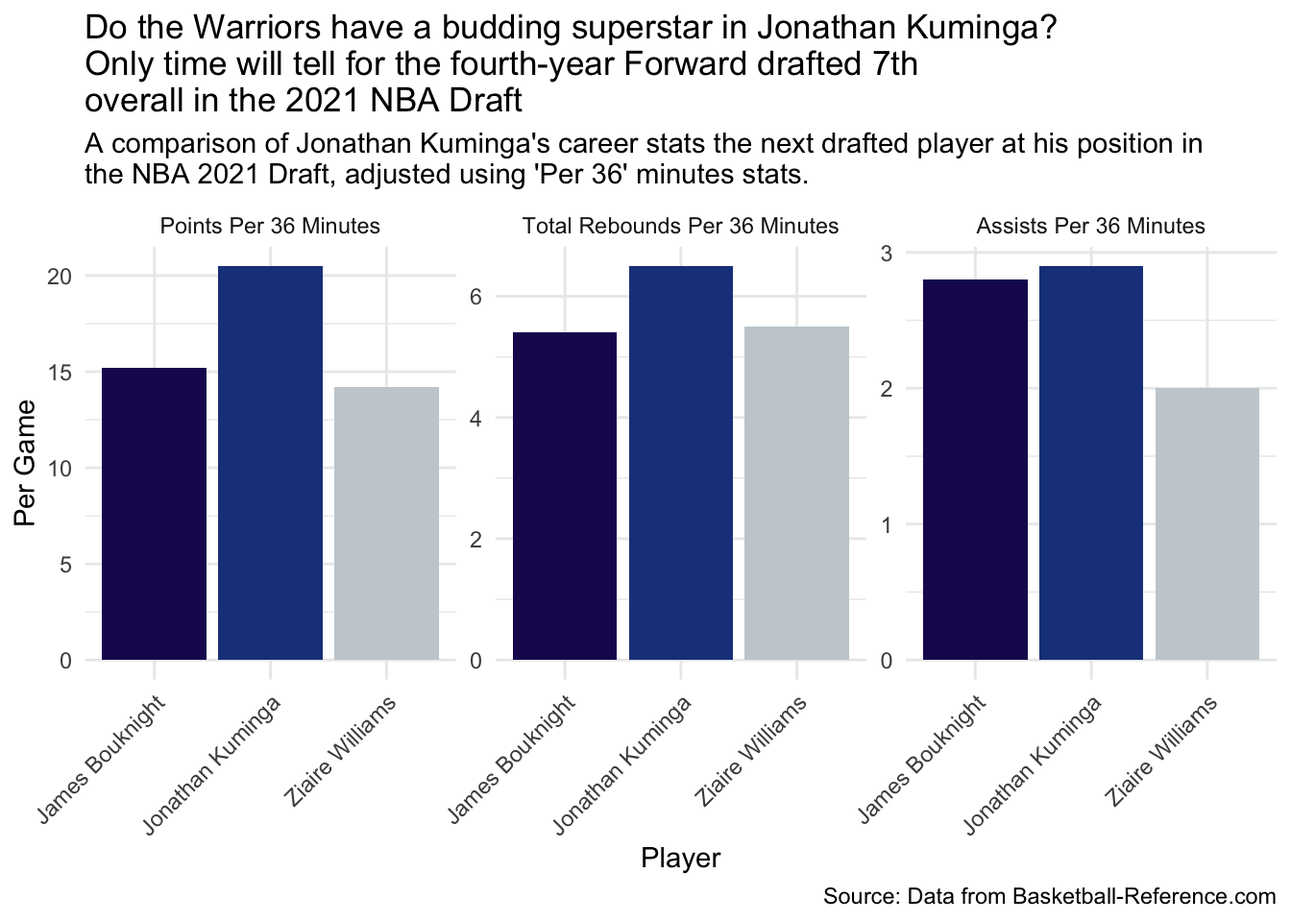
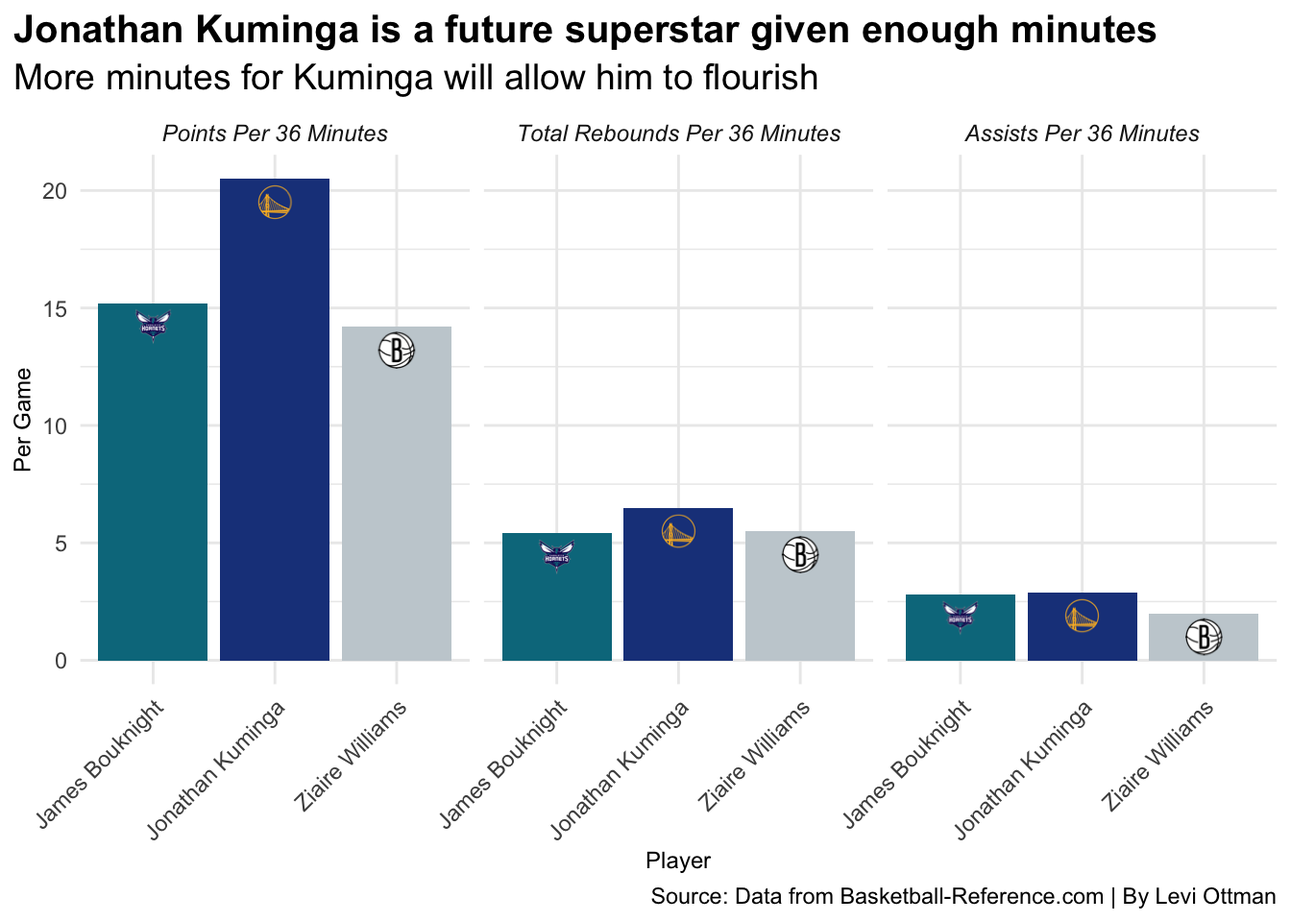
edits
changes made

diff --git a/posts/warriors-nba-draft/index.html b/posts/warriors-nba-draft/index.html
@@ -195,27 +195,14 @@ pre > code.sourceCode > span > a:first-child::before { text-decoration: underlin
 
 
 
-<p>Are the Warriors the best at drafting rookies recently? The Warriors have won four championships since 2015, cementing themselves as a modern-day dynasty, with that comes low draft pick numbers. In the last 10 drafts, the warriors have had an average first round pick at pick 19, but have been able to develop late-round rookies into key players that have contributed to their continued success. I am comparing the warriors picks to other players drafted just behind them to see if they truly drafted the best guy available at the time</p>
+<p>Are the Warriors the best at drafting rookies recently?</p>
+<p>The Warriors have won four championships since 2015, cementing themselves as a modern-day dynasty. With being a playoff contender year after year comes low draft picks. In the last 10 drafts, the Warriors have had an average first round pick at pick 19, but have been able to develop late-round rookies into key players that have contributed to their continued success.</p>
+<p>Even though the Warriors have had an average draft pick of 19, the question remains; are the Warriors the best at drafting and developing rookies?</p>
+<p>The first question we will answer is “Was Jonathan Kuminga the correct choice for the Warriors in the 2021 NBA Draft?” Here’s Kuminga’s stats per 36 minutes compared to similar players drafted behind him.</p>
 <div class="cell">
 <details class="code-fold">
 <summary>Code</summary>
-<div class="sourceCode cell-code" id="cb1"><pre class="sourceCode r code-with-copy"><code class="sourceCode r"><span id="cb1-1"><a href="#cb1-1" aria-hidden="true" tabindex="-1"></a><span class="fu">library</span>(tidyverse)</span></code><button title="Copy to Clipboard" class="code-copy-button"><i class="bi"></i></button></pre></div>
-</details>
-<div class="cell-output cell-output-stderr">
-<pre><code>── Attaching core tidyverse packages ──────────────────────── tidyverse 2.0.0 ──
-✔ dplyr     1.1.4     ✔ readr     2.1.5
-✔ forcats   1.0.0     ✔ stringr   1.5.1
-✔ ggplot2   3.5.1     ✔ tibble    3.2.1
-✔ lubridate 1.9.4     ✔ tidyr     1.3.1
-✔ purrr     1.0.4     
-── Conflicts ────────────────────────────────────────── tidyverse_conflicts() ──
-✖ dplyr::filter() masks stats::filter()
-✖ dplyr::lag()    masks stats::lag()
-ℹ Use the conflicted package (&lt;http://conflicted.r-lib.org/&gt;) to force all conflicts to become errors</code></pre>
-</div>
-<details class="code-fold">
-<summary>Code</summary>
-<div class="sourceCode cell-code" id="cb3"><pre class="sourceCode r code-with-copy"><code class="sourceCode r"><span id="cb3-1"><a href="#cb3-1" aria-hidden="true" tabindex="-1"></a>Kuminga_Stat_Chart <span class="ot">&lt;-</span> <span class="fu">read_csv</span>(<span class="st">"data/2021_Draft_Kuminga.csv"</span>)</span></code><button title="Copy to Clipboard" class="code-copy-button"><i class="bi"></i></button></pre></div>
+<div class="sourceCode cell-code" id="cb1"><pre class="sourceCode r code-with-copy"><code class="sourceCode r"><span id="cb1-1"><a href="#cb1-1" aria-hidden="true" tabindex="-1"></a>Kuminga_Stat_Chart <span class="ot">&lt;-</span> <span class="fu">read_csv</span>(<span class="st">"/Users/leviottman/Desktop/School/Office Documents/Spring 2025/Sports Data Analysis/Major Assignment/sportsBlog/posts/warriors-nba-draft/data/2021_Draft_Kuminga.csv"</span>)</span></code><button title="Copy to Clipboard" class="code-copy-button"><i class="bi"></i></button></pre></div>
 </details>
 <div class="cell-output cell-output-stderr">
 <pre><code>New names:
@@ -237,51 +224,157 @@ Specify the column types or set `show_col_types = FALSE` to quiet this message.
 </div>
 <details class="code-fold">
 <summary>Code</summary>
-<div class="sourceCode cell-code" id="cb5"><pre class="sourceCode r code-with-copy"><code class="sourceCode r"><span id="cb5-1"><a href="#cb5-1" aria-hidden="true" tabindex="-1"></a>Kuminga_Stat_Chart_long <span class="ot">&lt;-</span> Kuminga_Stat_Chart <span class="sc">|&gt;</span></span>
-<span id="cb5-2"><a href="#cb5-2" aria-hidden="true" tabindex="-1"></a>   <span class="fu">select</span>(Player, PTSper36, TRBper36, ASTper36) <span class="sc">|&gt;</span></span>
-<span id="cb5-3"><a href="#cb5-3" aria-hidden="true" tabindex="-1"></a>  <span class="fu">pivot_longer</span>(<span class="at">cols =</span> <span class="fu">c</span>(PTSper36, TRBper36, ASTper36), <span class="at">names_to =</span> <span class="st">"Stat"</span>, <span class="at">values_to =</span> <span class="st">"Value"</span>) <span class="sc">|&gt;</span></span>
-<span id="cb5-4"><a href="#cb5-4" aria-hidden="true" tabindex="-1"></a>  <span class="fu">mutate</span>(</span>
-<span id="cb5-5"><a href="#cb5-5" aria-hidden="true" tabindex="-1"></a>    <span class="at">Stat =</span> <span class="fu">factor</span>(Stat, <span class="at">levels =</span> <span class="fu">c</span>(<span class="st">"PTSper36"</span>, <span class="st">"TRBper36"</span>, <span class="st">"ASTper36"</span>)),</span>
-<span id="cb5-6"><a href="#cb5-6" aria-hidden="true" tabindex="-1"></a>    <span class="at">Stat =</span> <span class="fu">recode</span>(Stat, </span>
-<span id="cb5-7"><a href="#cb5-7" aria-hidden="true" tabindex="-1"></a>                  <span class="st">"PTSper36"</span> <span class="ot">=</span> <span class="st">"Points Per 36 Minutes"</span>, </span>
-<span id="cb5-8"><a href="#cb5-8" aria-hidden="true" tabindex="-1"></a>                  <span class="st">"TRBper36"</span> <span class="ot">=</span> <span class="st">"Total Rebounds Per 36 Minutes"</span>, </span>
-<span id="cb5-9"><a href="#cb5-9" aria-hidden="true" tabindex="-1"></a>                  <span class="st">"ASTper36"</span> <span class="ot">=</span> <span class="st">"Assists Per 36 Minutes"</span>),</span>
-<span id="cb5-10"><a href="#cb5-10" aria-hidden="true" tabindex="-1"></a>    <span class="at">Color =</span> <span class="fu">case_when</span>(</span>
-<span id="cb5-11"><a href="#cb5-11" aria-hidden="true" tabindex="-1"></a>      Player <span class="sc">==</span> <span class="st">"Jonathan Kuminga"</span> <span class="sc">&amp;</span> Stat <span class="sc">==</span> <span class="st">"Points Per 36 Minutes"</span> <span class="sc">~</span> <span class="st">"#1D428A"</span>,</span>
-<span id="cb5-12"><a href="#cb5-12" aria-hidden="true" tabindex="-1"></a>      Player <span class="sc">==</span> <span class="st">"Jonathan Kuminga"</span> <span class="sc">&amp;</span> Stat <span class="sc">==</span> <span class="st">"Total Rebounds Per 36 Minutes"</span> <span class="sc">~</span> <span class="st">"#1D428A"</span>,</span>
-<span id="cb5-13"><a href="#cb5-13" aria-hidden="true" tabindex="-1"></a>      Player <span class="sc">==</span> <span class="st">"Jonathan Kuminga"</span> <span class="sc">&amp;</span> Stat <span class="sc">==</span> <span class="st">"Assists Per 36 Minutes"</span> <span class="sc">~</span> <span class="st">"#1D428A"</span>, </span>
-<span id="cb5-14"><a href="#cb5-14" aria-hidden="true" tabindex="-1"></a>      Player <span class="sc">==</span> <span class="st">"James Bouknight"</span> <span class="sc">&amp;</span> Stat <span class="sc">==</span> <span class="st">"Points Per 36 Minutes"</span> <span class="sc">~</span> <span class="st">"#1D1160"</span>,</span>
-<span id="cb5-15"><a href="#cb5-15" aria-hidden="true" tabindex="-1"></a>      Player <span class="sc">==</span> <span class="st">"James Bouknight"</span> <span class="sc">&amp;</span> Stat <span class="sc">==</span> <span class="st">"Total Rebounds Per 36 Minutes"</span> <span class="sc">~</span> <span class="st">"#1D1160"</span>,</span>
-<span id="cb5-16"><a href="#cb5-16" aria-hidden="true" tabindex="-1"></a>      Player <span class="sc">==</span> <span class="st">"James Bouknight"</span> <span class="sc">&amp;</span> Stat <span class="sc">==</span> <span class="st">"Assists Per 36 Minutes"</span> <span class="sc">~</span> <span class="st">"#1D1160"</span>, </span>
-<span id="cb5-17"><a href="#cb5-17" aria-hidden="true" tabindex="-1"></a>      Player <span class="sc">==</span> <span class="st">"Ziaire Williams"</span> <span class="sc">&amp;</span> Stat <span class="sc">==</span> <span class="st">"Points Per 36 Minutes"</span> <span class="sc">~</span> <span class="st">"#C6CFD4"</span>,</span>
-<span id="cb5-18"><a href="#cb5-18" aria-hidden="true" tabindex="-1"></a>      Player <span class="sc">==</span> <span class="st">"Ziaire Williams"</span> <span class="sc">&amp;</span> Stat <span class="sc">==</span> <span class="st">"Total Rebounds Per 36 Minutes"</span> <span class="sc">~</span> <span class="st">"#C6CFD4"</span>,</span>
-<span id="cb5-19"><a href="#cb5-19" aria-hidden="true" tabindex="-1"></a>      Player <span class="sc">==</span> <span class="st">"Ziaire Williams"</span> <span class="sc">&amp;</span> Stat <span class="sc">==</span> <span class="st">"Assists Per 36 Minutes"</span> <span class="sc">~</span> <span class="st">"#C6CFD4"</span>,</span>
-<span id="cb5-20"><a href="#cb5-20" aria-hidden="true" tabindex="-1"></a>      <span class="cn">TRUE</span> <span class="sc">~</span> <span class="st">"grey"</span>  <span class="co"># Default color for other players</span></span>
-<span id="cb5-21"><a href="#cb5-21" aria-hidden="true" tabindex="-1"></a>    )</span>
-<span id="cb5-22"><a href="#cb5-22" aria-hidden="true" tabindex="-1"></a>  )</span>
-<span id="cb5-23"><a href="#cb5-23" aria-hidden="true" tabindex="-1"></a></span>
-<span id="cb5-24"><a href="#cb5-24" aria-hidden="true" tabindex="-1"></a><span class="fu">ggplot</span>(Kuminga_Stat_Chart_long, <span class="fu">aes</span>(<span class="at">x =</span> Player, <span class="at">y =</span> Value, <span class="at">fill =</span> Color)) <span class="sc">+</span></span>
-<span id="cb5-25"><a href="#cb5-25" aria-hidden="true" tabindex="-1"></a>  <span class="fu">geom_bar</span>(<span class="at">stat =</span> <span class="st">"identity"</span>, <span class="at">position =</span> <span class="st">"dodge"</span>) <span class="sc">+</span></span>
-<span id="cb5-26"><a href="#cb5-26" aria-hidden="true" tabindex="-1"></a>  <span class="fu">labs</span>(</span>
-<span id="cb5-27"><a href="#cb5-27" aria-hidden="true" tabindex="-1"></a>    <span class="at">title =</span> <span class="fu">str_wrap</span>(<span class="st">"Do the Warriors have a budding superstar in Jonathan Kuminga? Only time will tell for the fourth-year Forward drafted 7th overall in the 2021 NBA Draft"</span>, <span class="at">width =</span> <span class="dv">63</span>),</span>
-<span id="cb5-28"><a href="#cb5-28" aria-hidden="true" tabindex="-1"></a>    <span class="at">subtitle =</span> <span class="fu">str_wrap</span>(<span class="st">"A comparison of Jonathan Kuminga's career stats the next drafted player at his position in the NBA 2021 Draft, adjusted using 'Per 36' minutes stats."</span>, <span class="at">width =</span> <span class="dv">90</span>),</span>
-<span id="cb5-29"><a href="#cb5-29" aria-hidden="true" tabindex="-1"></a>    <span class="at">x =</span> <span class="st">"Player"</span>, </span>
-<span id="cb5-30"><a href="#cb5-30" aria-hidden="true" tabindex="-1"></a>    <span class="at">y =</span> <span class="st">"Per Game"</span>,</span>
-<span id="cb5-31"><a href="#cb5-31" aria-hidden="true" tabindex="-1"></a>    <span class="at">caption =</span> <span class="st">"Source: Data from Basketball-Reference.com"</span></span>
-<span id="cb5-32"><a href="#cb5-32" aria-hidden="true" tabindex="-1"></a>  ) <span class="sc">+</span></span>
-<span id="cb5-33"><a href="#cb5-33" aria-hidden="true" tabindex="-1"></a>  <span class="fu">theme_minimal</span>() <span class="sc">+</span></span>
-<span id="cb5-34"><a href="#cb5-34" aria-hidden="true" tabindex="-1"></a>  <span class="fu">theme</span>(<span class="at">axis.text.x =</span> <span class="fu">element_text</span>(<span class="at">angle =</span> <span class="dv">45</span>, <span class="at">hjust =</span> <span class="dv">1</span>)) <span class="sc">+</span></span>
-<span id="cb5-35"><a href="#cb5-35" aria-hidden="true" tabindex="-1"></a>  <span class="fu">scale_fill_identity</span>() <span class="sc">+</span></span>
-<span id="cb5-36"><a href="#cb5-36" aria-hidden="true" tabindex="-1"></a>  <span class="fu">facet_wrap</span>(<span class="sc">~</span> Stat, <span class="at">scales =</span> <span class="st">"free_y"</span>)</span></code><button title="Copy to Clipboard" class="code-copy-button"><i class="bi"></i></button></pre></div>
+<div class="sourceCode cell-code" id="cb3"><pre class="sourceCode r code-with-copy"><code class="sourceCode r"><span id="cb3-1"><a href="#cb3-1" aria-hidden="true" tabindex="-1"></a>Kuminga_Stat_Chart_long <span class="ot">&lt;-</span> Kuminga_Stat_Chart <span class="sc">|&gt;</span></span>
+<span id="cb3-2"><a href="#cb3-2" aria-hidden="true" tabindex="-1"></a>   <span class="fu">select</span>(Player, PTSper36, TRBper36, ASTper36) <span class="sc">|&gt;</span></span>
+<span id="cb3-3"><a href="#cb3-3" aria-hidden="true" tabindex="-1"></a>  <span class="fu">pivot_longer</span>(<span class="at">cols =</span> <span class="fu">c</span>(PTSper36, TRBper36, ASTper36), <span class="at">names_to =</span> <span class="st">"Stat"</span>, <span class="at">values_to =</span> <span class="st">"Value"</span>) <span class="sc">|&gt;</span></span>
+<span id="cb3-4"><a href="#cb3-4" aria-hidden="true" tabindex="-1"></a>  <span class="fu">mutate</span>(</span>
+<span id="cb3-5"><a href="#cb3-5" aria-hidden="true" tabindex="-1"></a>    <span class="at">Image =</span> <span class="fu">case_when</span>(</span>
+<span id="cb3-6"><a href="#cb3-6" aria-hidden="true" tabindex="-1"></a>      Player <span class="sc">==</span> <span class="st">"Jonathan Kuminga"</span> <span class="sc">~</span> <span class="st">"data/Warriors.png"</span>,</span>
+<span id="cb3-7"><a href="#cb3-7" aria-hidden="true" tabindex="-1"></a>      Player <span class="sc">==</span> <span class="st">"James Bouknight"</span> <span class="sc">~</span> <span class="st">"data/hornets.png"</span>,</span>
+<span id="cb3-8"><a href="#cb3-8" aria-hidden="true" tabindex="-1"></a>      Player <span class="sc">==</span> <span class="st">"Ziaire Williams"</span> <span class="sc">~</span> <span class="st">"data/nets.png"</span></span>
+<span id="cb3-9"><a href="#cb3-9" aria-hidden="true" tabindex="-1"></a>    ),</span>
+<span id="cb3-10"><a href="#cb3-10" aria-hidden="true" tabindex="-1"></a>    <span class="at">Stat =</span> <span class="fu">factor</span>(Stat, <span class="at">levels =</span> <span class="fu">c</span>(<span class="st">"PTSper36"</span>, <span class="st">"TRBper36"</span>, <span class="st">"ASTper36"</span>)),</span>
+<span id="cb3-11"><a href="#cb3-11" aria-hidden="true" tabindex="-1"></a>    <span class="at">Stat =</span> <span class="fu">recode</span>(Stat, </span>
+<span id="cb3-12"><a href="#cb3-12" aria-hidden="true" tabindex="-1"></a>                  <span class="st">"PTSper36"</span> <span class="ot">=</span> <span class="st">"Points Per 36 Minutes"</span>, </span>
+<span id="cb3-13"><a href="#cb3-13" aria-hidden="true" tabindex="-1"></a>                  <span class="st">"TRBper36"</span> <span class="ot">=</span> <span class="st">"Total Rebounds Per 36 Minutes"</span>, </span>
+<span id="cb3-14"><a href="#cb3-14" aria-hidden="true" tabindex="-1"></a>                  <span class="st">"ASTper36"</span> <span class="ot">=</span> <span class="st">"Assists Per 36 Minutes"</span>),</span>
+<span id="cb3-15"><a href="#cb3-15" aria-hidden="true" tabindex="-1"></a>    <span class="at">Color =</span> <span class="fu">case_when</span>(</span>
+<span id="cb3-16"><a href="#cb3-16" aria-hidden="true" tabindex="-1"></a>      Player <span class="sc">==</span> <span class="st">"Jonathan Kuminga"</span> <span class="sc">&amp;</span> Stat <span class="sc">==</span> <span class="st">"Points Per 36 Minutes"</span> <span class="sc">~</span> <span class="st">"#1D428A"</span>,</span>
+<span id="cb3-17"><a href="#cb3-17" aria-hidden="true" tabindex="-1"></a>      Player <span class="sc">==</span> <span class="st">"Jonathan Kuminga"</span> <span class="sc">&amp;</span> Stat <span class="sc">==</span> <span class="st">"Total Rebounds Per 36 Minutes"</span> <span class="sc">~</span> <span class="st">"#1D428A"</span>,</span>
+<span id="cb3-18"><a href="#cb3-18" aria-hidden="true" tabindex="-1"></a>      Player <span class="sc">==</span> <span class="st">"Jonathan Kuminga"</span> <span class="sc">&amp;</span> Stat <span class="sc">==</span> <span class="st">"Assists Per 36 Minutes"</span> <span class="sc">~</span> <span class="st">"#1D428A"</span>, </span>
+<span id="cb3-19"><a href="#cb3-19" aria-hidden="true" tabindex="-1"></a>      Player <span class="sc">==</span> <span class="st">"James Bouknight"</span> <span class="sc">&amp;</span> Stat <span class="sc">==</span> <span class="st">"Points Per 36 Minutes"</span> <span class="sc">~</span> <span class="st">"#00788C"</span>,</span>
+<span id="cb3-20"><a href="#cb3-20" aria-hidden="true" tabindex="-1"></a>      Player <span class="sc">==</span> <span class="st">"James Bouknight"</span> <span class="sc">&amp;</span> Stat <span class="sc">==</span> <span class="st">"Total Rebounds Per 36 Minutes"</span> <span class="sc">~</span> <span class="st">"#00788C"</span>,</span>
+<span id="cb3-21"><a href="#cb3-21" aria-hidden="true" tabindex="-1"></a>      Player <span class="sc">==</span> <span class="st">"James Bouknight"</span> <span class="sc">&amp;</span> Stat <span class="sc">==</span> <span class="st">"Assists Per 36 Minutes"</span> <span class="sc">~</span> <span class="st">"#00788C"</span>, </span>
+<span id="cb3-22"><a href="#cb3-22" aria-hidden="true" tabindex="-1"></a>      Player <span class="sc">==</span> <span class="st">"Ziaire Williams"</span> <span class="sc">&amp;</span> Stat <span class="sc">==</span> <span class="st">"Points Per 36 Minutes"</span> <span class="sc">~</span> <span class="st">"#C6CFD4"</span>,</span>
+<span id="cb3-23"><a href="#cb3-23" aria-hidden="true" tabindex="-1"></a>      Player <span class="sc">==</span> <span class="st">"Ziaire Williams"</span> <span class="sc">&amp;</span> Stat <span class="sc">==</span> <span class="st">"Total Rebounds Per 36 Minutes"</span> <span class="sc">~</span> <span class="st">"#C6CFD4"</span>,</span>
+<span id="cb3-24"><a href="#cb3-24" aria-hidden="true" tabindex="-1"></a>      Player <span class="sc">==</span> <span class="st">"Ziaire Williams"</span> <span class="sc">&amp;</span> Stat <span class="sc">==</span> <span class="st">"Assists Per 36 Minutes"</span> <span class="sc">~</span> <span class="st">"#C6CFD4"</span>,</span>
+<span id="cb3-25"><a href="#cb3-25" aria-hidden="true" tabindex="-1"></a>))</span>
+<span id="cb3-26"><a href="#cb3-26" aria-hidden="true" tabindex="-1"></a></span>
+<span id="cb3-27"><a href="#cb3-27" aria-hidden="true" tabindex="-1"></a></span>
+<span id="cb3-28"><a href="#cb3-28" aria-hidden="true" tabindex="-1"></a><span class="fu">ggplot</span>(Kuminga_Stat_Chart_long, <span class="fu">aes</span>(<span class="at">x =</span> Player, <span class="at">y =</span> Value, <span class="at">fill =</span> Color, <span class="at">image =</span> Image)) <span class="sc">+</span></span>
+<span id="cb3-29"><a href="#cb3-29" aria-hidden="true" tabindex="-1"></a>  <span class="fu">geom_bar</span>(<span class="at">stat =</span> <span class="st">"identity"</span>, <span class="at">position =</span> <span class="st">"dodge"</span>) <span class="sc">+</span></span>
+<span id="cb3-30"><a href="#cb3-30" aria-hidden="true" tabindex="-1"></a>  <span class="fu">geom_image</span>(</span>
+<span id="cb3-31"><a href="#cb3-31" aria-hidden="true" tabindex="-1"></a>    <span class="fu">aes</span>(<span class="at">image =</span> Image, <span class="at">y =</span> Value <span class="sc">-</span> <span class="dv">1</span>),</span>
+<span id="cb3-32"><a href="#cb3-32" aria-hidden="true" tabindex="-1"></a>    <span class="at">position =</span> <span class="fu">position_dodge</span>(<span class="at">width =</span> <span class="dv">1</span>),</span>
+<span id="cb3-33"><a href="#cb3-33" aria-hidden="true" tabindex="-1"></a>    <span class="at">size =</span> <span class="fl">0.07</span></span>
+<span id="cb3-34"><a href="#cb3-34" aria-hidden="true" tabindex="-1"></a>  ) <span class="sc">+</span></span>
+<span id="cb3-35"><a href="#cb3-35" aria-hidden="true" tabindex="-1"></a>  <span class="fu">labs</span>(</span>
+<span id="cb3-36"><a href="#cb3-36" aria-hidden="true" tabindex="-1"></a>    <span class="at">x =</span> <span class="st">"Player"</span>, </span>
+<span id="cb3-37"><a href="#cb3-37" aria-hidden="true" tabindex="-1"></a>    <span class="at">y =</span> <span class="st">"Per Game"</span>,</span>
+<span id="cb3-38"><a href="#cb3-38" aria-hidden="true" tabindex="-1"></a>    <span class="at">title =</span> <span class="fu">str_wrap</span>(<span class="st">"Jonathan Kuminga is a future superstar given enough minutes"</span>, <span class="at">width =</span> <span class="dv">63</span>),</span>
+<span id="cb3-39"><a href="#cb3-39" aria-hidden="true" tabindex="-1"></a>    <span class="at">subtitle =</span> <span class="fu">str_wrap</span>(<span class="st">"More minutes for Kuminga will allow him to flourish"</span>),</span>
+<span id="cb3-40"><a href="#cb3-40" aria-hidden="true" tabindex="-1"></a>    <span class="at">caption =</span> <span class="st">"By: Levi Ottman  |  Source: Basketball-Reference.com"</span></span>
+<span id="cb3-41"><a href="#cb3-41" aria-hidden="true" tabindex="-1"></a>  ) <span class="sc">+</span></span>
+<span id="cb3-42"><a href="#cb3-42" aria-hidden="true" tabindex="-1"></a> <span class="fu">theme_minimal</span>() <span class="sc">+</span></span>
+<span id="cb3-43"><a href="#cb3-43" aria-hidden="true" tabindex="-1"></a>  <span class="fu">theme</span>(</span>
+<span id="cb3-44"><a href="#cb3-44" aria-hidden="true" tabindex="-1"></a>    <span class="at">plot.title =</span> <span class="fu">element_text</span>(<span class="at">color =</span> <span class="st">"black"</span>, <span class="at">face =</span> <span class="st">"bold"</span>, <span class="at">hjust =</span> <span class="dv">0</span>, <span class="at">size =</span> <span class="dv">15</span>),</span>
+<span id="cb3-45"><a href="#cb3-45" aria-hidden="true" tabindex="-1"></a>    <span class="at">plot.subtitle =</span> <span class="fu">element_text</span>(<span class="at">color =</span> <span class="st">"black"</span>, <span class="at">hjust =</span> <span class="dv">0</span>, <span class="at">size =</span> <span class="dv">14</span>),</span>
+<span id="cb3-46"><a href="#cb3-46" aria-hidden="true" tabindex="-1"></a>    <span class="at">axis.title.x =</span> <span class="fu">element_text</span>(<span class="at">size =</span> <span class="dv">9</span>),</span>
+<span id="cb3-47"><a href="#cb3-47" aria-hidden="true" tabindex="-1"></a>    <span class="at">axis.title.y =</span> <span class="fu">element_text</span>(<span class="at">size =</span> <span class="dv">9</span>),</span>
+<span id="cb3-48"><a href="#cb3-48" aria-hidden="true" tabindex="-1"></a>    <span class="at">axis.text.x =</span> <span class="fu">element_text</span>(<span class="at">angle =</span> <span class="dv">45</span>, <span class="at">hjust =</span> <span class="dv">1</span>),</span>
+<span id="cb3-49"><a href="#cb3-49" aria-hidden="true" tabindex="-1"></a>    <span class="at">plot.title.position =</span> <span class="st">"plot"</span>,</span>
+<span id="cb3-50"><a href="#cb3-50" aria-hidden="true" tabindex="-1"></a>    <span class="at">strip.text =</span> <span class="fu">element_text</span>(<span class="at">size =</span> <span class="dv">9</span>, <span class="at">face =</span> <span class="st">"italic"</span>),</span>
+<span id="cb3-51"><a href="#cb3-51" aria-hidden="true" tabindex="-1"></a>) <span class="sc">+</span></span>
+<span id="cb3-52"><a href="#cb3-52" aria-hidden="true" tabindex="-1"></a>  <span class="fu">scale_fill_identity</span>() <span class="sc">+</span></span>
+<span id="cb3-53"><a href="#cb3-53" aria-hidden="true" tabindex="-1"></a>  <span class="fu">facet_wrap</span>(<span class="sc">~</span> Stat, <span class="at">scales =</span> <span class="st">"fixed"</span>)</span></code><button title="Copy to Clipboard" class="code-copy-button"><i class="bi"></i></button></pre></div>
 </details>
 <div class="cell-output-display">
 <div>
 <figure class="figure">
-<p><img src="index_files/figure-html/unnamed-chunk-1-1.png" class="img-fluid figure-img" width="672"></p>
+<p><img src="index_files/figure-html/unnamed-chunk-2-1.png" class="img-fluid figure-img" width="672"></p>
 </figure>
 </div>
 </div>
 </div>
+<p>Chart 2</p>
+<p>Many basketball advanced statstics can be hard to understand for the common viewer, one that is easier to understand is Win Shares. “According to Basketball Reference: ‘’Win Shares is a player statistic which attempts to divvy up credit for team success to the individuals on the team’’.</p>
+<div class="cell">
+<details class="code-fold">
+<summary>Code</summary>
+<div class="sourceCode cell-code" id="cb4"><pre class="sourceCode r code-with-copy"><code class="sourceCode r"><span id="cb4-1"><a href="#cb4-1" aria-hidden="true" tabindex="-1"></a>NBA2023Draft <span class="ot">&lt;-</span> <span class="fu">read_csv</span>(<span class="st">"/Users/leviottman/Desktop/School/Office Documents/Spring 2025/Sports Data Analysis/Major Assignment/sportsBlog/posts/warriors-nba-draft/data/NBA2023Draft.csv"</span>)</span></code><button title="Copy to Clipboard" class="code-copy-button"><i class="bi"></i></button></pre></div>
+</details>
+<div class="cell-output cell-output-stderr">
+<pre><code>New names:
+Rows: 58 Columns: 22
+── Column specification
+──────────────────────────────────────────────────────── Delimiter: "," chr
+(3): Tm, Player, College dbl (19): Rk, Pk, Yrs, G, MP...8, PTS...9, TRB...10,
+AST...11, FG%, 3P%, FT%...
+ℹ Use `spec()` to retrieve the full column specification for this data. ℹ
+Specify the column types or set `show_col_types = FALSE` to quiet this message.
+• `MP` -&gt; `MP...8`
+• `PTS` -&gt; `PTS...9`
+• `TRB` -&gt; `TRB...10`
+• `AST` -&gt; `AST...11`
+• `MP` -&gt; `MP...15`
+• `PTS` -&gt; `PTS...16`
+• `TRB` -&gt; `TRB...17`
+• `AST` -&gt; `AST...18`</code></pre>
+</div>
+<details class="code-fold">
+<summary>Code</summary>
+<div class="sourceCode cell-code" id="cb6"><pre class="sourceCode r code-with-copy"><code class="sourceCode r"><span id="cb6-1"><a href="#cb6-1" aria-hidden="true" tabindex="-1"></a>Warriors_NBA2023Draft <span class="ot">&lt;-</span> NBA2023Draft <span class="sc">|&gt;</span></span>
+<span id="cb6-2"><a href="#cb6-2" aria-hidden="true" tabindex="-1"></a>  <span class="fu">mutate</span>(<span class="at">Hightlight =</span> <span class="fu">ifelse</span>(Pk <span class="sc">==</span> <span class="dv">19</span> <span class="sc">|</span> Pk <span class="sc">==</span> <span class="dv">57</span>, <span class="st">"Highlight"</span>, <span class="st">"Normal"</span>)) <span class="sc">|&gt;</span></span>
+<span id="cb6-3"><a href="#cb6-3" aria-hidden="true" tabindex="-1"></a> <span class="fu">arrange</span>(<span class="fu">desc</span>(WS)) <span class="sc">|&gt;</span></span>
+<span id="cb6-4"><a href="#cb6-4" aria-hidden="true" tabindex="-1"></a>  <span class="fu">head</span>(<span class="dv">10</span>)</span>
+<span id="cb6-5"><a href="#cb6-5" aria-hidden="true" tabindex="-1"></a></span>
+<span id="cb6-6"><a href="#cb6-6" aria-hidden="true" tabindex="-1"></a>Warriors_NBA2023Draft <span class="ot">&lt;-</span> Warriors_NBA2023Draft <span class="sc">|&gt;</span></span>
+<span id="cb6-7"><a href="#cb6-7" aria-hidden="true" tabindex="-1"></a>  <span class="fu">mutate</span>(<span class="at">Highlight =</span> <span class="fu">ifelse</span>(Pk <span class="sc">==</span> <span class="dv">19</span> <span class="sc">|</span> Pk <span class="sc">==</span> <span class="dv">57</span>, <span class="st">"Warriors"</span>, <span class="st">"Non-Warriors"</span>))</span>
+<span id="cb6-8"><a href="#cb6-8" aria-hidden="true" tabindex="-1"></a></span>
+<span id="cb6-9"><a href="#cb6-9" aria-hidden="true" tabindex="-1"></a><span class="fu">ggplot</span>(Warriors_NBA2023Draft, <span class="fu">aes</span>(<span class="at">x =</span> WS, <span class="at">y =</span> <span class="fu">factor</span>(Pk))) <span class="sc">+</span></span>
+<span id="cb6-10"><a href="#cb6-10" aria-hidden="true" tabindex="-1"></a>  <span class="fu">geom_col</span>(<span class="fu">aes</span>(<span class="at">fill =</span> Highlight), <span class="at">color =</span> <span class="st">"white"</span>, <span class="at">width =</span> <span class="fl">0.4</span>) <span class="sc">+</span></span>
+<span id="cb6-11"><a href="#cb6-11" aria-hidden="true" tabindex="-1"></a>  <span class="fu">geom_text</span>(<span class="fu">aes</span>(<span class="at">label =</span> <span class="fu">round</span>(WS, <span class="dv">2</span>)), <span class="at">vjust =</span> <span class="sc">-</span><span class="fl">1.8</span>, <span class="at">color =</span> <span class="st">"black"</span>, <span class="at">size =</span> <span class="fl">3.2</span>, <span class="at">fontface =</span> <span class="st">"bold"</span>) <span class="sc">+</span></span>
+<span id="cb6-12"><a href="#cb6-12" aria-hidden="true" tabindex="-1"></a>  <span class="fu">geom_text</span>(<span class="fu">aes</span>(<span class="at">label =</span> Player), <span class="at">vjust =</span> <span class="sc">-</span><span class="fl">0.6</span>, <span class="at">color =</span> <span class="st">"black"</span>, <span class="at">size =</span> <span class="fl">1.82</span>, <span class="at">fontface =</span> <span class="st">"italic"</span>) <span class="sc">+</span></span>
+<span id="cb6-13"><a href="#cb6-13" aria-hidden="true" tabindex="-1"></a>  <span class="fu">labs</span>(</span>
+<span id="cb6-14"><a href="#cb6-14" aria-hidden="true" tabindex="-1"></a>    <span class="at">title =</span> <span class="st">"Top 10 Rookies ranked on Win Shares in the 2023 NBA Draft"</span>,</span>
+<span id="cb6-15"><a href="#cb6-15" aria-hidden="true" tabindex="-1"></a>    <span class="at">subtitle =</span> <span class="st">"More Win Shares, the more impact on their team's success"</span>,</span>
+<span id="cb6-16"><a href="#cb6-16" aria-hidden="true" tabindex="-1"></a>    <span class="at">x =</span> <span class="st">"Win Shares"</span>,</span>
+<span id="cb6-17"><a href="#cb6-17" aria-hidden="true" tabindex="-1"></a>    <span class="at">y =</span> <span class="st">"Draft Pick"</span>,</span>
+<span id="cb6-18"><a href="#cb6-18" aria-hidden="true" tabindex="-1"></a>    <span class="at">caption =</span> <span class="st">"By: Levi Ottman  |  Source: Basketball-Reference.com"</span></span>
+<span id="cb6-19"><a href="#cb6-19" aria-hidden="true" tabindex="-1"></a>  ) <span class="sc">+</span></span>
+<span id="cb6-20"><a href="#cb6-20" aria-hidden="true" tabindex="-1"></a>  <span class="fu">scale_fill_manual</span>(<span class="at">values =</span> <span class="fu">c</span>(<span class="st">"Warriors"</span> <span class="ot">=</span> <span class="st">"#1D428A"</span>, <span class="st">"Non-Warriors"</span> <span class="ot">=</span> <span class="st">"gray"</span>)) <span class="sc">+</span></span>
+<span id="cb6-21"><a href="#cb6-21" aria-hidden="true" tabindex="-1"></a>  <span class="fu">theme_minimal</span>(<span class="at">base_family =</span> <span class="st">"sans"</span>) <span class="sc">+</span></span>
+<span id="cb6-22"><a href="#cb6-22" aria-hidden="true" tabindex="-1"></a>  <span class="fu">theme</span>(</span>
+<span id="cb6-23"><a href="#cb6-23" aria-hidden="true" tabindex="-1"></a>    <span class="at">plot.title =</span> <span class="fu">element_text</span>(<span class="at">color =</span> <span class="st">"black"</span>, <span class="at">face =</span> <span class="st">"bold"</span>, <span class="at">hjust =</span> <span class="dv">0</span>, <span class="at">size =</span> <span class="dv">15</span>),</span>
+<span id="cb6-24"><a href="#cb6-24" aria-hidden="true" tabindex="-1"></a>    <span class="at">plot.subtitle =</span> <span class="fu">element_text</span>(<span class="at">color =</span> <span class="st">"black"</span>, <span class="at">hjust =</span> <span class="dv">0</span>, <span class="at">size =</span> <span class="dv">14</span>),</span>
+<span id="cb6-25"><a href="#cb6-25" aria-hidden="true" tabindex="-1"></a>    <span class="at">legend.position =</span> <span class="st">"none"</span>,</span>
+<span id="cb6-26"><a href="#cb6-26" aria-hidden="true" tabindex="-1"></a>    <span class="at">plot.caption =</span> <span class="fu">element_text</span>(<span class="at">hjust =</span> <span class="dv">1</span>, <span class="at">size =</span> <span class="dv">10</span>, <span class="at">face =</span> <span class="st">"plain"</span>),</span>
+<span id="cb6-27"><a href="#cb6-27" aria-hidden="true" tabindex="-1"></a>    <span class="at">panel.grid.major.y =</span> <span class="fu">element_blank</span>(),</span>
+<span id="cb6-28"><a href="#cb6-28" aria-hidden="true" tabindex="-1"></a>    <span class="at">panel.grid.minor.y =</span> <span class="fu">element_blank</span>(),</span>
+<span id="cb6-29"><a href="#cb6-29" aria-hidden="true" tabindex="-1"></a>    <span class="at">plot.title.position =</span> <span class="st">"plot"</span>,</span>
+<span id="cb6-30"><a href="#cb6-30" aria-hidden="true" tabindex="-1"></a>  ) <span class="sc">+</span></span>
+<span id="cb6-31"><a href="#cb6-31" aria-hidden="true" tabindex="-1"></a>  <span class="fu">xlim</span>(<span class="dv">0</span>, <span class="dv">17</span>) <span class="sc">+</span></span>
+<span id="cb6-32"><a href="#cb6-32" aria-hidden="true" tabindex="-1"></a>  <span class="fu">coord_flip</span>()</span></code><button title="Copy to Clipboard" class="code-copy-button"><i class="bi"></i></button></pre></div>
+</details>
+<div class="cell-output-display">
+<div>
+<figure class="figure">
+<p><img src="index_files/figure-html/unnamed-chunk-4-1.png" class="img-fluid figure-img" width="672"></p>
+</figure>
+</div>
+</div>
+</div>
+<p>Rookies on the Golden State Warriors normally do not get that many minutes, due to the star power and their starting lineup with Stephen Curry, Draymond Green, Jimmy Butler and other star players who have a lot of minutes per game. When a younger Warrior player I able to break into the rotation and get sizable minutes their points per game goes up and they are able to develop into a star player for the warriors.</p>
+<p>The Golden State Warriors recently have been stuck between two eras of Warrior basketball: ‘The Big Three’’, and the development of their younger players. Preparing for a future without Stephen Curry and company is something the Warriors need to accomplish, but there is only 240 minutes to distrubute between 8 to 10 players a game.</p>
+<div class="cell">
+<div class="cell-output-display">
+<div>
+<figure class="figure">
+<p><img src="index_files/figure-html/unnamed-chunk-5-1.png" class="img-fluid figure-img" width="672"></p>
+</figure>
+</div>
+</div>
+</div>
+<div class="cell">
+<details class="code-fold">
+<summary>Code</summary>
+<div class="sourceCode cell-code" id="cb7"><pre class="sourceCode r code-with-copy"><code class="sourceCode r"><span id="cb7-1"><a href="#cb7-1" aria-hidden="true" tabindex="-1"></a><span class="fu">list.files</span>(<span class="st">"sportsBlog/posts/warriors-nba-draft/"</span>)</span></code><button title="Copy to Clipboard" class="code-copy-button"><i class="bi"></i></button></pre></div>
+</details>
+<div class="cell-output cell-output-stdout">
+<pre><code>character(0)</code></pre>
+</div>
+</div>
+<p>Overall, it is safe to say the Warriors are one of the best when it comes to drafting players late in the NBA Draft, and developing them into the type of player they are looking for.</p>
 
 
 

diff --git a/index.html b/index.html
@@ -210,7 +210,7 @@ window.Quarto = {
 
 <div class="quarto-listing quarto-listing-container-default" id="listing-listing">
 <div class="list quarto-listing-default">
-<div class="quarto-post image-right" data-index="0" data-categories="bmJhJTJDd2FycmlvcnMlMkNiYXNrZXRiYWxs" data-listing-date-sort="1743483600000" data-listing-file-modified-sort="1743549417078" data-listing-date-modified-sort="NaN" data-listing-reading-time-sort="3" data-listing-word-count-sort="537">
+<div class="quarto-post image-right" data-index="0" data-categories="bmJhJTJDd2FycmlvcnMlMkNiYXNrZXRiYWxs" data-listing-date-sort="1743483600000" data-listing-file-modified-sort="1744577535443" data-listing-date-modified-sort="NaN" data-listing-reading-time-sort="8" data-listing-word-count-sort="1501">
 <div class="thumbnail">
 <p><a href="./posts/warriors-nba-draft/index.html" class="no-external"></a></p><a href="./posts/warriors-nba-draft/index.html" class="no-external">
 <p><img loading="lazy" src="./posts/warriors-nba-draft/image.png" class="thumbnail-image"></p>
@@ -235,7 +235,7 @@ basketball
 </div>
 </div>
 <div class="listing-description">
-<a href="./posts/warriors-nba-draft/index.html" class="no-external">Are the Warriors the best at drafting rookies recently? The Warriors have won four championships since 2015, cementing themselves as a modern-day dynasty, with that comes…</a>
+<a href="./posts/warriors-nba-draft/index.html" class="no-external">Are the Warriors the best at drafting rookies recently?</a>
 </div>
 </div>
 <div class="metadata">
